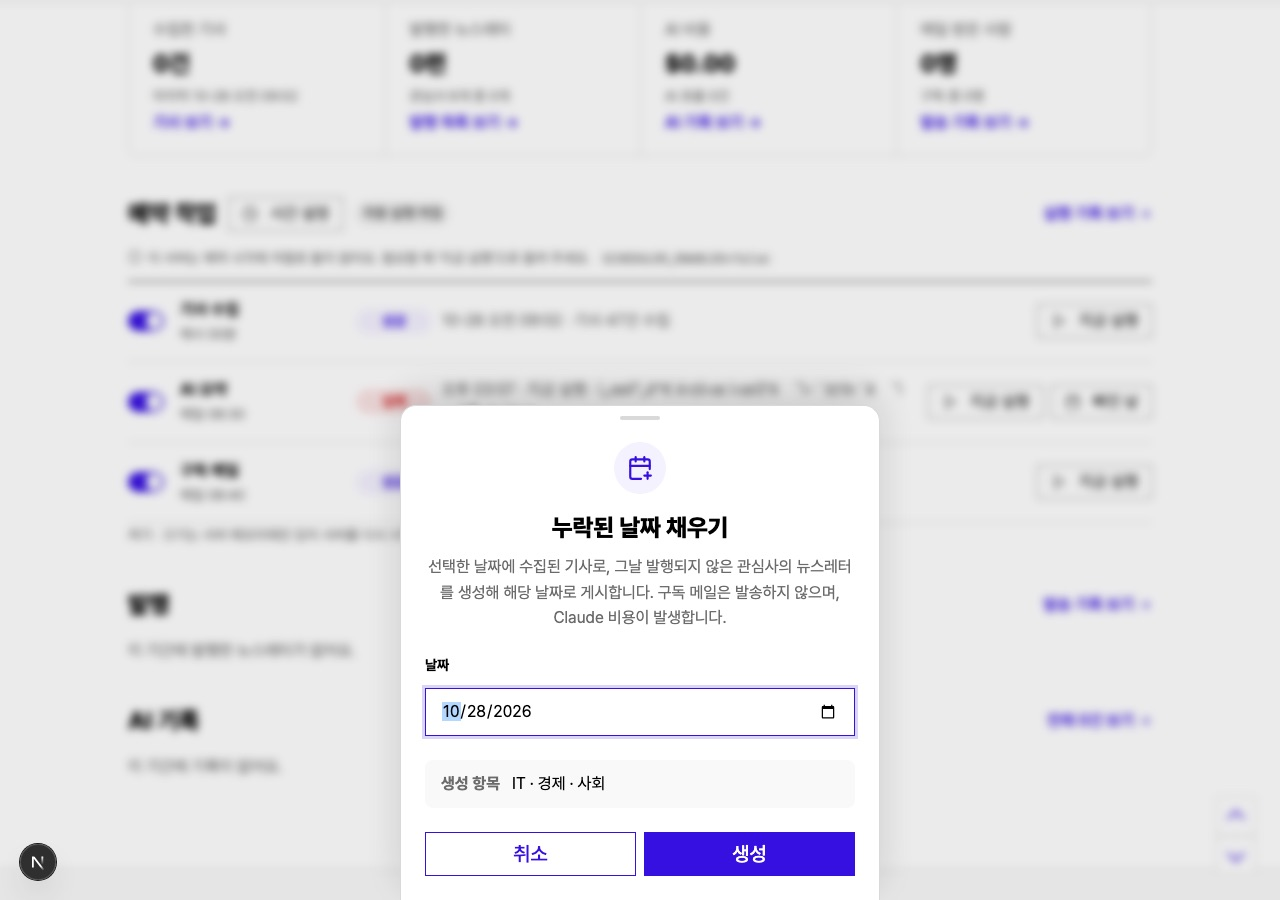
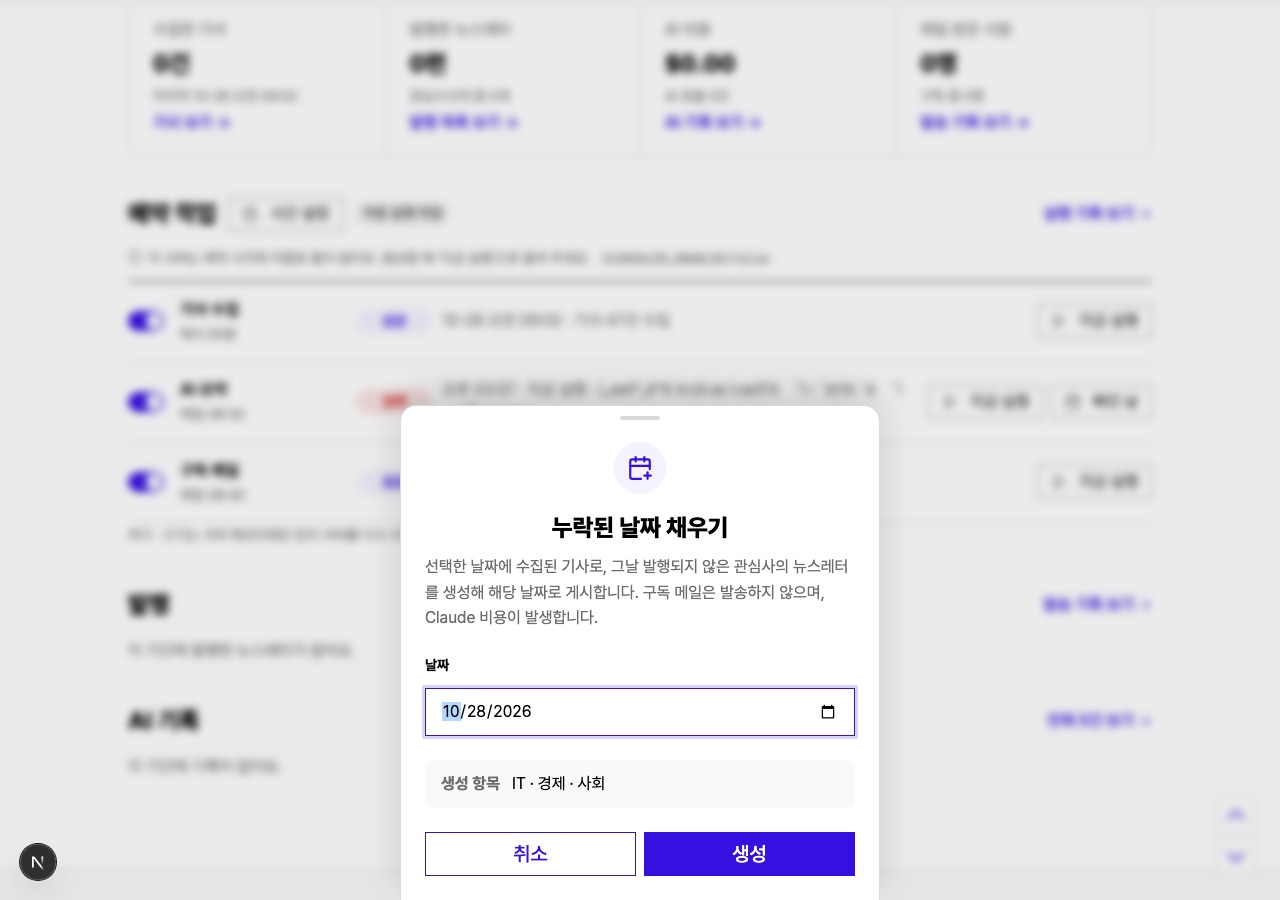
style: 확인 창 본문은 왼쪽 맞춤 (아이콘 · 제목만 가운데)

Changed region(s): [[0.3125, 0.6222, 0.6562, 0.7156]]

diff --git a/apps/web/src/components/common/modal/ModalContent.tsx b/apps/web/src/components/common/modal/ModalContent.tsx
@@ -41,8 +41,9 @@ function ModalContents({
 				<Title size="extraSmall" weight="bold">
 					{title}
 				</Title>
+				{/* 본문은 왼쪽 맞춤 (아이콘 · 제목만 가운데): 여러 줄 설명이 가운데로 흩어지면 읽기 어렵다 */}
 				{content && (
-					<Text size="small" color="subText" className="leading-[1.6]">
+					<Text size="small" color="subText" className="self-stretch text-left leading-[1.6]">
 						{content}
 					</Text>
 				)}
